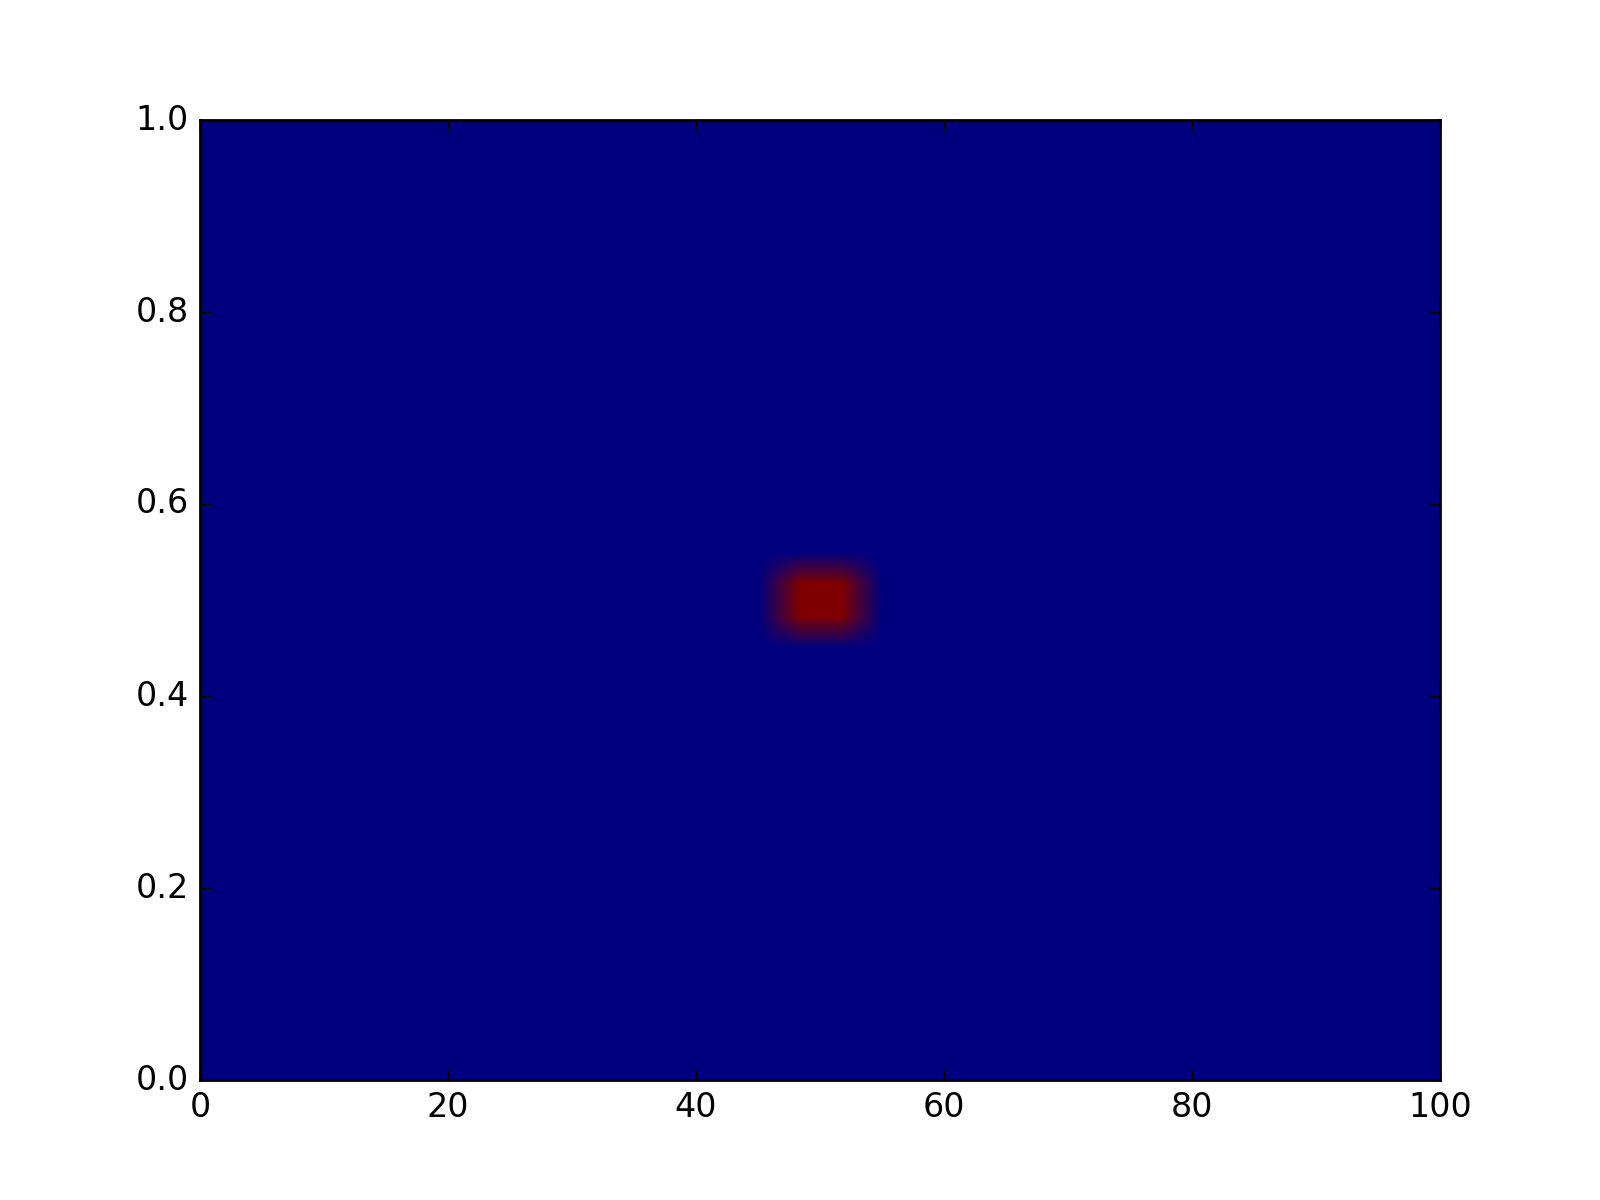
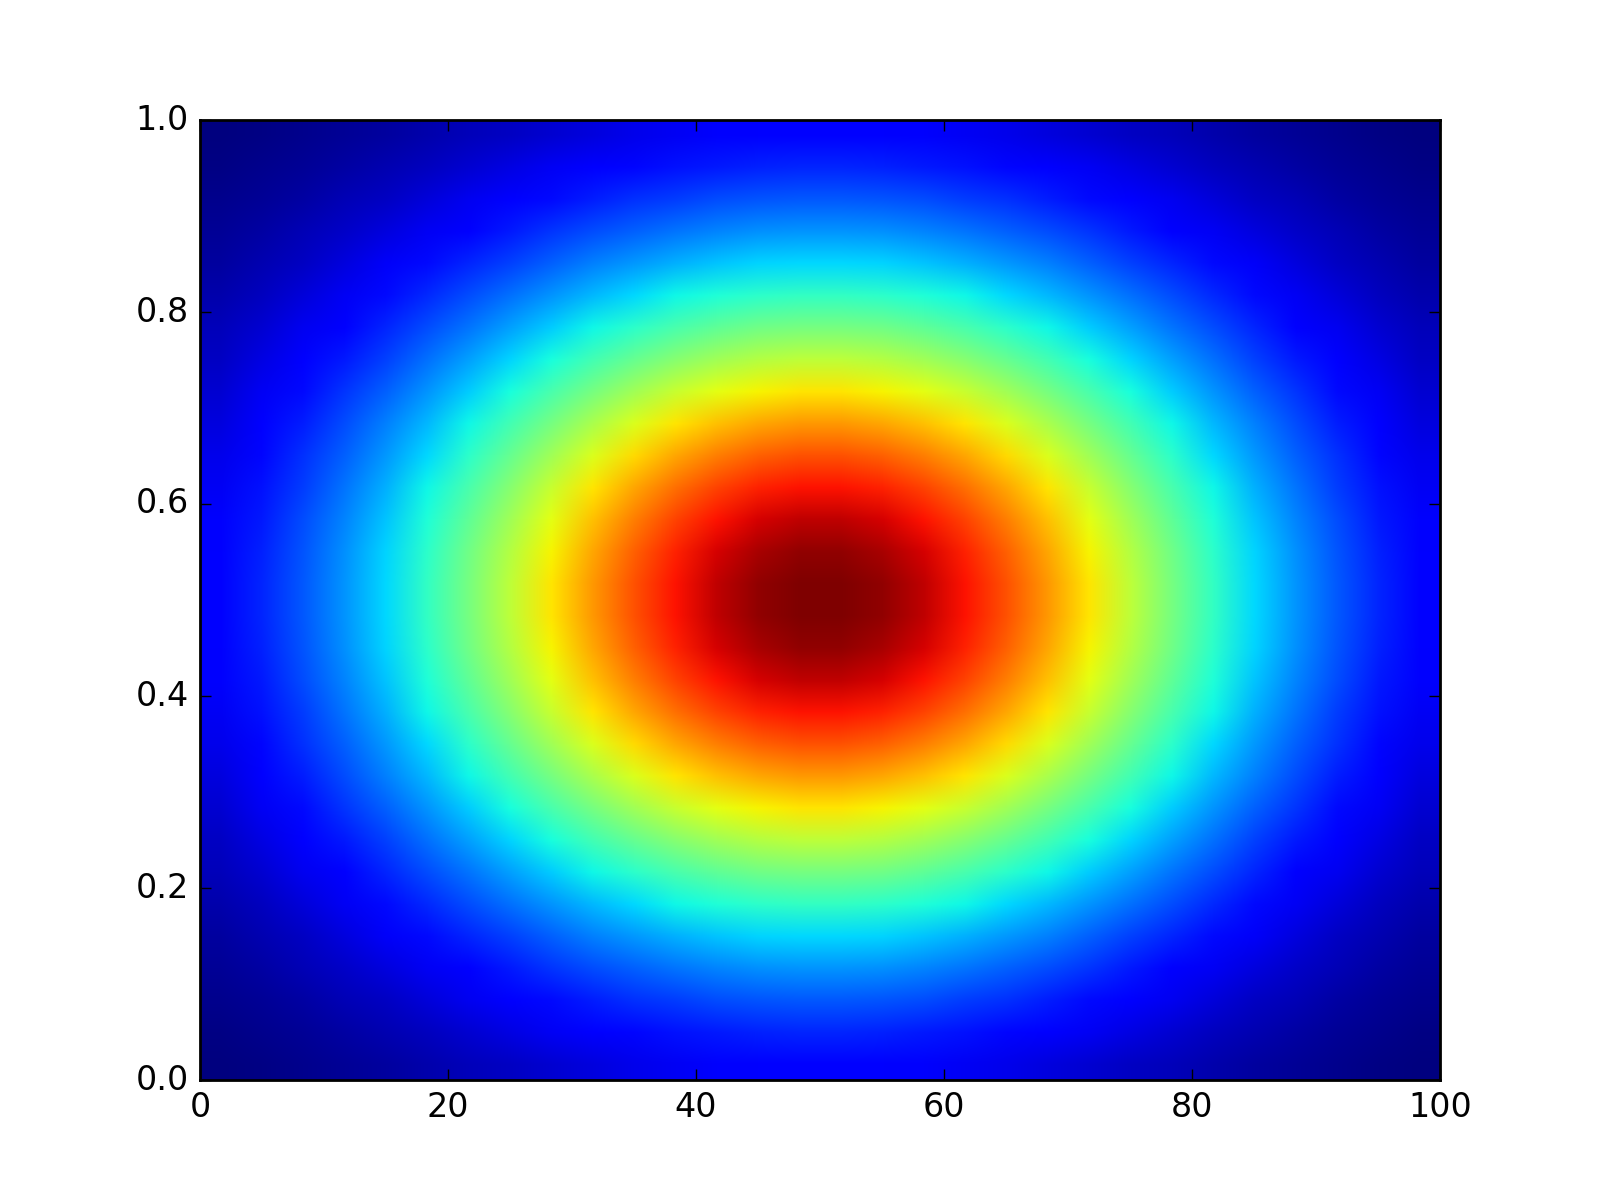
scaled example image

diff --git a/examples/make_test_data.py b/examples/make_test_data.py
@@ -2,19 +2,12 @@ import numpy as np
 from scipy.stats import multivariate_normal
 
 x, y = np.mgrid[-1.0:1.0:30j, -1.0:1.0:30j]
-# Need an (N, 2) array of (x, y) pairs.
 xy = np.column_stack([x.flat, y.flat])
-
 mu = np.array([0.0, 0.0])
 
-sigma = np.array([.025, .025])
+sigma = np.array([.5, .5])
 covariance = np.diag(sigma**2)
 
 z = multivariate_normal.pdf(xy, mean=mu, cov=covariance)
-
-
-# Reshape back to a (30, 30) grid.
 z = z.reshape(x.shape)
-print(z)
-
 np.savetxt('examples/data.txt', z)
